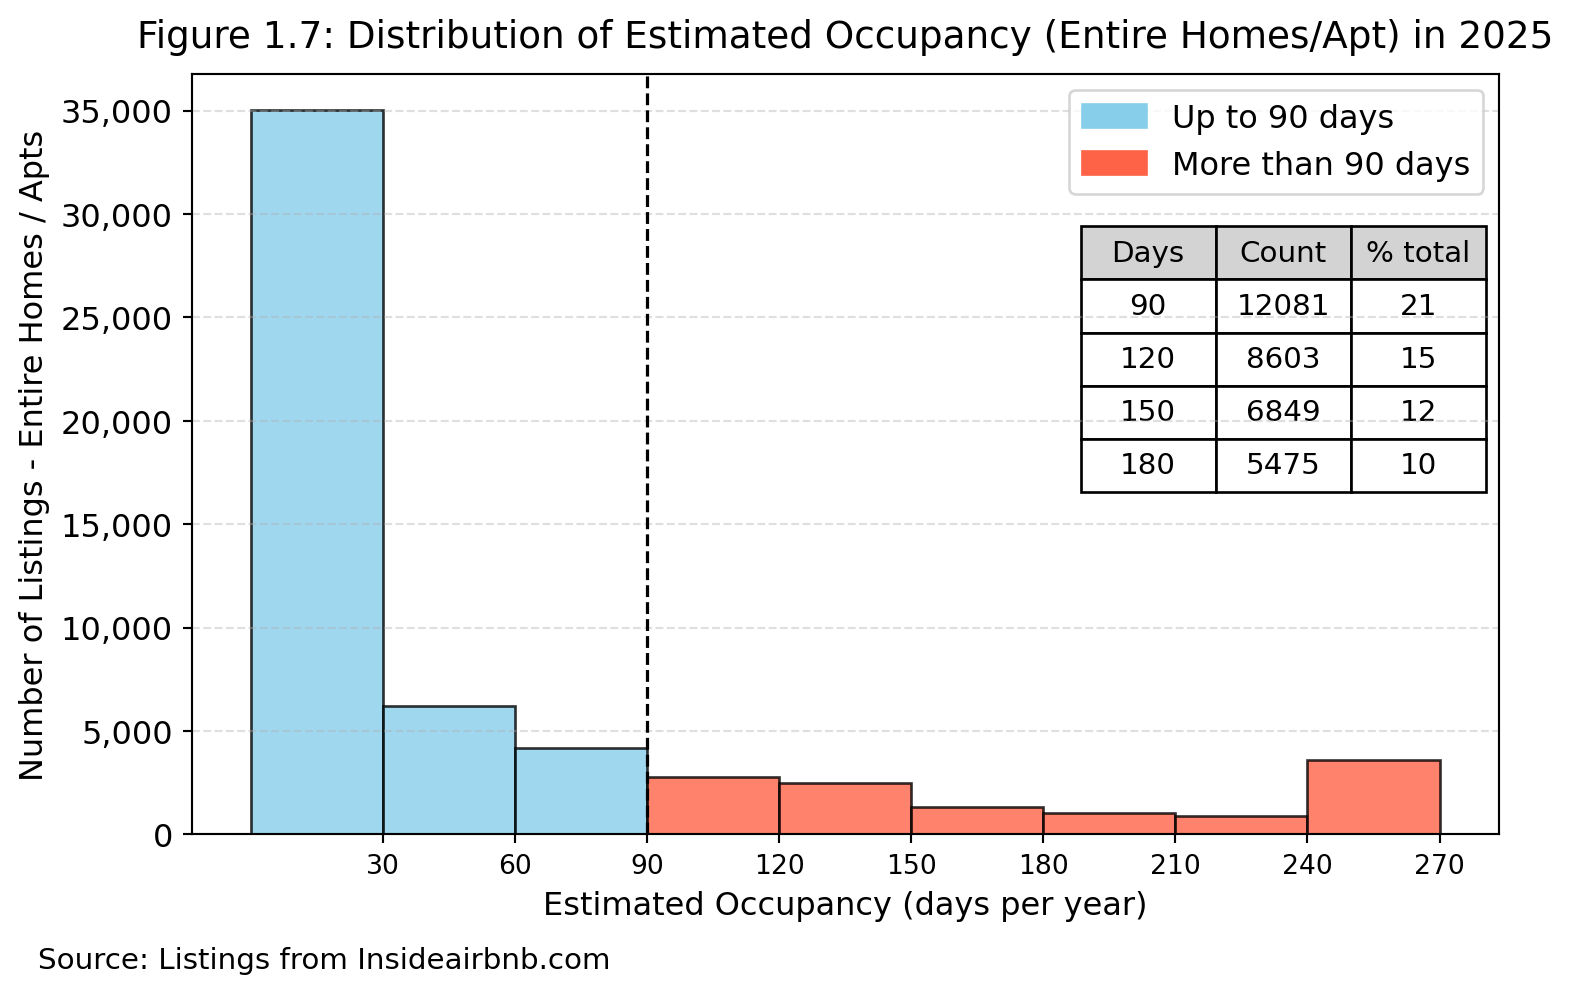
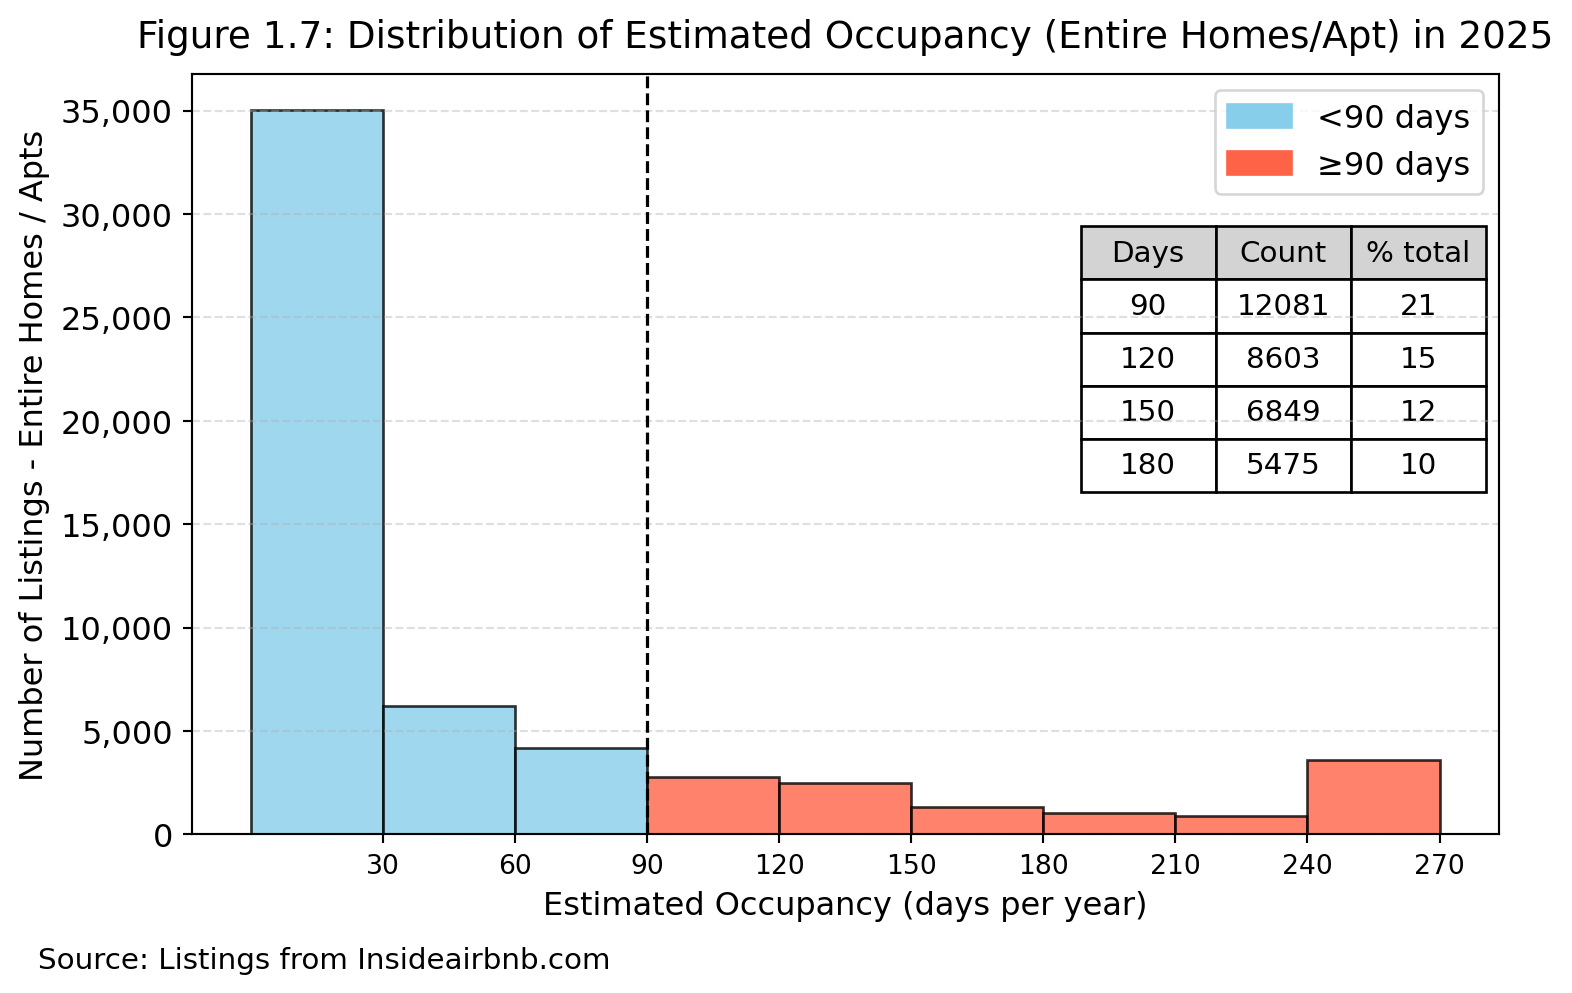
Updating draft Week8

Changed region(s): [[0.6858, 0.0937, 0.9351, 0.1873]]

diff --git a/Drafts/Wk 8/Draft_Week8_updated.html b/Drafts/Wk 8/Draft_Week8_updated.html
@@ -6,7 +6,7 @@
 
 <meta name="viewport" content="width=device-width, initial-scale=1.0, user-scalable=yes">
 
-<meta name="dcterms.date" content="2025-11-29">
+<meta name="dcterms.date" content="2025-11-30">
 
 <title>The Pythoneers’ Group Project</title>
 <style>
@@ -80,7 +80,7 @@ ul.task-list li input[type="checkbox"] {
     <div>
     <div class="quarto-title-meta-heading">Published</div>
     <div class="quarto-title-meta-contents">
-      <p class="date">November 29, 2025</p>
+      <p class="date">November 30, 2025</p>
     </div>
   </div>
   
@@ -170,7 +170,7 @@ ul.task-list li input[type="checkbox"] {
 <li><p>From 2021-2025, Airbnb listings across London<a href="#fn1" class="footnote-ref" id="fnref1" role="doc-noteref"><sup>1</sup></a> <strong>increased by 24%</strong> from <strong>69,402</strong> to <strong>86,383 listings</strong>. <u>Figure 1.1</u> summarizes the spatial distribution and growth trends<a href="#fn2" class="footnote-ref" id="fnref2" role="doc-noteref"><sup>2</sup></a>.</p></li>
 <li><p>Overall growth was largely driven by a <strong>sharp increase in listings from 2022-2023 (↑24%</strong>), due to higher host registrations and marketing efforts. Growth rates over the last two years have moderated.</p></li>
 </ul>
-<div id="078f18a5" class="cell" data-execution_count="8">
+<div id="0cfd2d69" class="cell" data-execution_count="8">
 <div class="cell-output cell-output-display">
 <div>
 <figure class="figure">
@@ -185,7 +185,7 @@ ul.task-list li input[type="checkbox"] {
 <ul>
 <li>From 2021-2025, central areas of London generally saw larger increases. The <strong>Borough of Westminster</strong> saw the <strong>largest increase in listings Borough of 39.0%</strong> (to reach <strong>10,554</strong> <strong>listings in 2025</strong> (<u>Figure 1.2</u>).</li>
 </ul>
-<div id="38fc9bc1" class="cell" data-execution_count="10">
+<div id="555662d6" class="cell" data-execution_count="10">
 <div class="cell-output cell-output-display">
 <div>
 <figure class="figure">
@@ -200,7 +200,7 @@ ul.task-list li input[type="checkbox"] {
 <ul>
 <li>From 2020-2024, total housing stock in London only increased from <strong>3.68M</strong> to <strong>3.81M</strong> (<u>Figure 1.3</u>, data for 2025 unavailable), with a <strong>much slower growth rate of around 3.7%, over the last five years</strong>. Amidst robust demand and a tight housing market, the faster increase in properties for short-term rental relative to housing stock could have exacerbated pressures on housing prices and rents (<a href="https://discovery.ucl.ac.uk/id/eprint/10124650/7/Musah_23998083211001836.pdf">Todd, Musah &amp; Cheshire (2022)</a>).</li>
 </ul>
-<div id="d6d683ef" class="cell" data-execution_count="13">
+<div id="eded4f99" class="cell" data-execution_count="13">
 <div class="cell-output cell-output-display">
 <div>
 <figure class="figure">
@@ -212,7 +212,7 @@ ul.task-list li input[type="checkbox"] {
 <ul>
 <li><strong>Inner London Boroughs (orange bars in <u>Figure 1.4</u>) saw a higher ratio of increases in Airbnb listings compared to increases in housing stock</strong>. Kensington and Chelsea experienced listing growth that was 5 times that of housing stock growth and faced the largest impact of listings growth. &nbsp;</li>
 </ul>
-<div id="342f7ef5" class="cell" data-execution_count="15">
+<div id="5a684cb2" class="cell" data-execution_count="15">
 <div class="cell-output cell-output-display">
 <div>
 <figure class="figure">
@@ -227,7 +227,7 @@ ul.task-list li input[type="checkbox"] {
 <ul>
 <li>At the Borough-level (<u>Figure 1.5</u>), the <strong>proportion of Airbnb listings compared to the overall housing stock ranged from 0.2% to 5.8%</strong>, with Inner London Boroughs having a higher share of listings relative to housing stock. &nbsp;</li>
 </ul>
-<div id="5c67c117" class="cell" data-execution_count="17">
+<div id="38d79547" class="cell" data-execution_count="17">
 <div class="cell-output cell-output-display">
 <div>
 <figure class="figure">
@@ -239,7 +239,7 @@ ul.task-list li input[type="checkbox"] {
 <ul>
 <li>At the MSOA-level, it becomes clearer that there are pockets of concentration of listings relative to housing stock in these Boroughs, with <strong>up to 1 in 8 homes (12.5%)</strong> listed for Airbnb (<u>Figure 1.6</u>). This high proportion could be driving negative sentiments in some parts of London that Airbnb could be out of control.</li>
 </ul>
-<div id="2ccddb67" class="cell" data-execution_count="19">
+<div id="1386b3d4" class="cell" data-execution_count="19">
 <div class="cell-output cell-output-display">
 <div>
 <figure class="figure">
@@ -252,11 +252,11 @@ ul.task-list li input[type="checkbox"] {
 <section id="how-many-listings-potentially-breach-the-current-90-day-limit-for-rentals" class="level4">
 <h4 class="anchored" data-anchor-id="how-many-listings-potentially-breach-the-current-90-day-limit-for-rentals">1.5 How many listings potentially breach the current 90-day limit for rentals?</h4>
 <ul>
-<li><p>Since 2015 <em>(AS note: I think 2015: www.london.gov.uk/press-releases/mayoral/registration-system-for-short-term-letting-law)</em>, London planning rules state that <em>entire homes</em> let on platforms such as Airbnb should not be used for short-term letting for more than <strong>90 nights per calendar year</strong>, without planning permission obtained. This prevents permanent housing from being converted into de facto holiday accommodation.</p></li>
+<li><p>Since 2015, London planning rules state that <em>entire homes</em> let on platforms such as Airbnb should not be used for short-term letting for more than <strong>90 nights per calendar year</strong>, without planning permission obtained. This prevents permanent housing from being converted into de facto holiday accommodation.</p></li>
 <li><p>In 2025, <strong>57,554 or 67.0% of all listings</strong> were for “entire homes / apartments”. Based on occupancy estimates<a href="#fn3" class="footnote-ref" id="fnref3" role="doc-noteref"><sup>3</sup></a> , <strong>12,081</strong> entire homes / apartments were used for more than 90 nights per year. This represents <strong>more than 2 in 10 of all entire homes listings</strong>, and <strong>around 1 in 8 of all listings in London</strong> that were possibly in breach of this rule.</p></li>
 <li><p>Notwithstanding the sensitivity of the assumptions in Inside Airbnb’s methodology<a href="#fn4" class="footnote-ref" id="fnref4" role="doc-noteref"><sup>4</sup></a>, we expect this estimate to be a conservative one, given reported <strong>likelihood of multiple listings of the same property</strong>, which some owners have used to circumvent the 90 day rule<a href="#fn5" class="footnote-ref" id="fnref5" role="doc-noteref"><sup>5</sup></a>.</p></li>
 </ul>
-<div id="abc105ee" class="cell" data-execution_count="21">
+<div id="c69af610" class="cell" data-execution_count="21">
 <div class="cell-output cell-output-display">
 <div>
 <figure class="figure">
@@ -265,7 +265,7 @@ ul.task-list li input[type="checkbox"] {
 </div>
 </div>
 </div>
-<p>The spatial pattern is consistent with earlier trends. Boroughs in inner London show the <strong>highest rates of intense use</strong> (i.e &gt;90 days).</p>
+<p>The spatial pattern is consistent with earlier trends. Inner London Boroughs show the <strong>highest rates of intense use</strong> (i.e &gt;90 days).</p>
 <ul>
 <li><p><strong>Westminster: 27%</strong> of entire home listings have occupancy exceeding 90 nights”</p></li>
 <li><p><strong>Camden: 25%</strong></p></li>
@@ -282,7 +282,7 @@ ul.task-list li input[type="checkbox"] {
 <h2 class="anchored" data-anchor-id="how-many-professional-landlords-are-there"><strong>2. How many professional landlords are there?</strong></h2>
 <section id="what-is-the-distribution-of-airbnb-types-in-london" class="level4">
 <h4 class="anchored" data-anchor-id="what-is-the-distribution-of-airbnb-types-in-london">2.1 What is the distribution of Airbnb types in London?</h4>
-<div id="496819f2" class="cell" data-execution_count="24">
+<div id="6cfdca3f" class="cell" data-execution_count="24">
 <div class="cell-output cell-output-display">
 <div>
 <figure class="figure">
@@ -304,7 +304,7 @@ ul.task-list li input[type="checkbox"] {
 </section>
 <section id="how-many-hosts-have-listings-for-two-or-more-entire-properties-homes-apartments" class="level4">
 <h4 class="anchored" data-anchor-id="how-many-hosts-have-listings-for-two-or-more-entire-properties-homes-apartments">2.3 How many hosts have listings for two or more entire properties (homes / apartments)?</h4>
-<div id="abb0a04c" class="cell" data-execution_count="26">
+<div id="4007ca15" class="cell" data-execution_count="26">
 <div class="cell-output cell-output-stdout">
 <pre><code>occupancy_group   &lt;90 days  ≥90 days
 host_size_group                     
@@ -332,7 +332,7 @@ host_size_group
 </section>
 <section id="what-is-the-median-income-from-renting-out-entire-homes-apartments-for-single-listing-and-multi-listing-hosts-how-does-this-compare-with-median-incomes-for-working-persons-in-london" class="level4">
 <h4 class="anchored" data-anchor-id="what-is-the-median-income-from-renting-out-entire-homes-apartments-for-single-listing-and-multi-listing-hosts-how-does-this-compare-with-median-incomes-for-working-persons-in-london">2.4 What is the median income from renting out entire homes / apartments for single-listing and multi-listing hosts? How does this compare with median incomes for working persons in London?</h4>
-<div id="c4cceb48" class="cell" data-execution_count="28">
+<div id="047bf0d3" class="cell" data-execution_count="28">
 <div class="cell-output cell-output-stdout">
 <pre><code>After excluding rows with 0 or NaN revenue: 28,898
 4,858 24,000 5,600 30,300</code></pre>
@@ -341,22 +341,31 @@ host_size_group
 <p>Based on estimated revenues from Inside Airbnb data<a href="#fn8" class="footnote-ref" id="fnref8" role="doc-noteref"><sup>8</sup></a>,</p>
 <ul>
 <li><p>The median single-listing host renting out their home for less than 90 days earned <strong>£4,858</strong>, while the median multi-listing host earned <strong>£5,600</strong> a year per property.</p></li>
-<li><p>This rises much further when we look at <u>frequent hosts (i.e.&nbsp;occupancy ≥90 days)</u>. The median single-listing host earned <strong>£30,300</strong>, while multi-listing hosts earned <strong><code>{median_income_multi_90dmore:,.0f}"</code></strong> a year per property.</p></li>
+<li><p>This rises much further when we look at <u>frequent hosts (i.e.&nbsp;occupancy ≥90 days)</u>. The median single-listing host earned <strong>£30,300</strong>, while multi-listing hosts earned <strong>30,300</strong> a year per property.</p></li>
 </ul>
+<div id="0b39437e" class="cell" data-execution_count="29">
+<div class="cell-output cell-output-display">
+<div>
+<figure class="figure">
+<p><img src="Draft_Week8_updated_files/figure-html/cell-30-output-1.png" width="759" height="496" class="figure-img"></p>
+</figure>
+</div>
+</div>
+</div>
 <p>The London Datastore reported that the mean income in London for 2022-2023 was £59,000 and the median was £34,100. <em>[expand source?]</em></p>
 </section>
 <section id="what-is-the-profile-of-these-hosts" class="level4">
 <h4 class="anchored" data-anchor-id="what-is-the-profile-of-these-hosts">2.5 What is the profile of these hosts ?</h4>
-<div id="ef56be05" class="cell" data-execution_count="30">
-<div class="cell-output cell-output-display" data-execution_count="30">
+<div id="74e3f19e" class="cell" data-execution_count="31">
+<div class="cell-output cell-output-display" data-execution_count="31">
 <pre><code>np.int64(2472)</code></pre>
 </div>
 </div>
-<div id="395c74dc" class="cell" data-execution_count="31">
+<div id="05bafce8" class="cell" data-execution_count="32">
 <div class="cell-output cell-output-display">
 <div>
 <figure class="figure">
-<p><img src="Draft_Week8_updated_files/figure-html/cell-32-output-1.png" width="757" height="526" class="figure-img"></p>
+<p><img src="Draft_Week8_updated_files/figure-html/cell-33-output-1.png" width="757" height="526" class="figure-img"></p>
 </figure>
 </div>
 </div>
